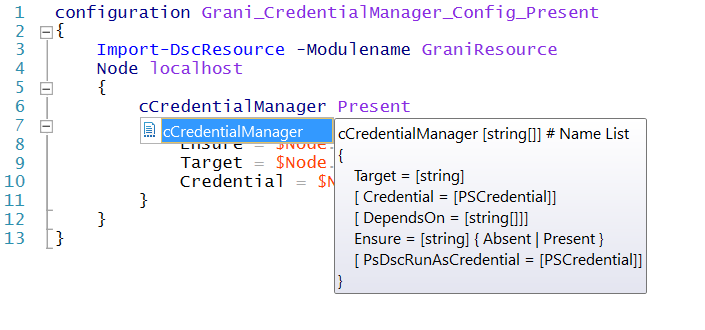
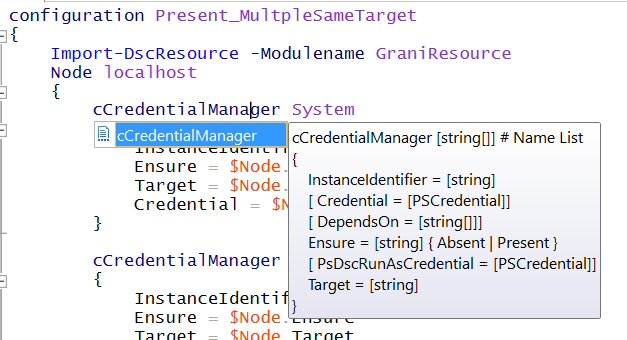
Update Readme for New Key Property. Added Multiple Same Target sample

Changed region(s): [[0.1515, 0.303, 0.9697, 1.0], [0.0, 0.0, 0.8485, 1.0], [0.1212, 0.6364, 0.1818, 0.697]]

diff --git a/DSCResources/Properties/AssemblyInfo.cs b/DSCResources/Properties/AssemblyInfo.cs
@@ -32,5 +32,5 @@ using System.Runtime.InteropServices;
 // You can specify all the values or you can default the Build and Revision Numbers 
 // by using the '*' as shown below:
 // [assembly: AssemblyVersion("1.0.*")]
-[assembly: AssemblyVersion("3.7.7.0")]
+[assembly: AssemblyVersion("3.7.8.0")]
 [assembly: AssemblyFileVersion("1.0.0.0")]

diff --git a/DSCResources/Grani_CredentialManager/README.md b/DSCResources/Grani_CredentialManager/README.md
@@ -41,6 +41,7 @@ configuration Present_System
     {
         cCredentialManager Present
         {
+            InstanceIdentifier = $Node.InstanceIdentifier
             Ensure = $Node.Ensure
             Target = $Node.Target
             Credential = $Node.Credential
@@ -53,6 +54,7 @@ $configurationData = @{
         @{
             NodeName = "localhost"
             PSDscAllowPlainTextPassword = $true
+            InstanceIdentifier = "JustAnIdentifierToKeepUnique"
             Ensure = "Present"
             Target = "DesiredTargetName"
             Credential = New-Object PSCredential ("PesterTestDummy", ("PesterTestPassword" | ConvertTo-SecureString -Force -AsPlainText))
@@ -71,8 +73,9 @@ configuration Absent_System
     Import-DscResource -Modulename GraniResource
     Node localhost
     {
-        cCredentialManager Present
+        cCredentialManager Absent
         {
+            InstanceIdentifier = $Node.InstanceIdentifier
             Ensure = $Node.Ensure
             Target = $Node.Target
         }
@@ -84,6 +87,7 @@ $configurationData = @{
         @{
             NodeName = "localhost"
             PSDscAllowPlainTextPassword = $true
+            InstanceIdentifier = "JustAnIdentifierToKeepUnique"
             Ensure = "Absent"
             Target = "DesiredTargetName"
         }
@@ -110,6 +114,89 @@ configuration Present_PsDscRunAsCredential
     {
         cCredentialManager Present
         {
+            InstanceIdentifier = $Node.InstanceIdentifier
+            Ensure = $Node.Ensure
+            Target = $Node.Target
+            Credential = $Node.Credential
+            PsDscRunAsCredential = $Node.PsDscRunAsCredential
+        }
+    }
+}
+
+$configurationData = @{
+    AllNodes = @(
+        @{
+            NodeName = "localhost"
+            PSDscAllowPlainTextPassword = $true
+            InstanceIdentifier = "JustAnIdentifierToKeepUnique"
+            Ensure = "Present"
+            Target = "DesiredTargetName"
+            Credential = New-Object PSCredential ("PesterTestDummy", ("PesterTestPassword" | ConvertTo-SecureString -Force -AsPlainText))
+            PsDscRunAsCredential = New-Object PSCredential ("administrator", ("SuperExcellntPassword____????1111" | ConvertTo-SecureString -Force -AsPlainText))
+        }
+    )
+}
+
+Present_PsDscRunAsCredential -ConfigurationData $configurationData
+```
+
+### Sample4. Remove Credential Manager entry **DesiredTargetName** from Specific user account by using PsDscRunAsCredential (== In this case **administrator**).
+
+```powershell
+configuration Absent_PsDscRunAsCredential
+{
+    Import-DscResource -Modulename GraniResource
+    Node localhost
+    {
+        cCredentialManager Absent
+        {
+            InstanceIdentifier = $Node.InstanceIdentifier
+            Ensure = $Node.Ensure
+            Target = $Node.Target
+            PsDscRunAsCredential = $Node.PsDscRunAsCredential
+        }
+    }
+}
+
+$configurationData = @{
+    AllNodes = @(
+        @{
+            NodeName = "localhost"
+            PSDscAllowPlainTextPassword = $true
+            InstanceIdentifier = "JustAnIdentifierToKeepUnique"
+            Ensure = "Absent"
+            Target = "DesiredTargetName"
+            PsDscRunAsCredential = New-Object PSCredential ("administrator", ("SuperExcellntPassword____????1111" | ConvertTo-SecureString -Force -AsPlainText))
+        }
+    )
+}
+
+Absent_PsDscRunAsCredential -ConfigurationData $configurationData
+```
+
+### Sample5. Create Credential Manager entry **DesiredTargetName** to Multiple user account by using PsDscRunAsCredential (== In this case **administrator**).
+
+**InstanceIdentifier** is just an identifier to avoid DSC detect duplicate resource for Same **Target**, **Credential** is trying to set to multuple account.
+
+This means you can set any value and never effects to Cred Manager for **InstanceIdentifier**. Just be careful to be unique like following. 
+
+```powershell
+configuration Present_MultpleSameTarget
+{
+    Import-DscResource -Modulename GraniResource
+    Node localhost
+    {
+        cCredentialManager System
+        {
+            InstanceIdentifier = "Sytem"
+            Ensure = $Node.Ensure
+            Target = $Node.Target
+            Credential = $Node.Credential
+        }
+
+        cCredentialManager User
+        {
+            InstanceIdentifier = "User"
             Ensure = $Node.Ensure
             Target = $Node.Target
             Credential = $Node.Credential
@@ -131,37 +218,6 @@ $configurationData = @{
     )
 }
 
-Present_PsDscRunAsCredential -ConfigurationData $configurationData
+Present_MultpleSameTarget -ConfigurationData $configurationData
 ```
 
-### Sample4. Remove Credential Manager entry **DesiredTargetName** from Specific user account by using PsDscRunAsCredential (== In this case **administrator**).
-
-```powershell
-configuration Absent_PsDscRunAsCredential
-{
-    Import-DscResource -Modulename GraniResource
-    Node localhost
-    {
-        cCredentialManager Present
-        {
-            Ensure = $Node.Ensure
-            Target = $Node.Target
-            PsDscRunAsCredential = $Node.PsDscRunAsCredential
-        }
-    }
-}
-
-$configurationData = @{
-    AllNodes = @(
-        @{
-            NodeName = "localhost"
-            PSDscAllowPlainTextPassword = $true
-            Ensure = "Absent"
-            Target = "DesiredTargetName"
-            PsDscRunAsCredential = New-Object PSCredential ("administrator", ("SuperExcellntPassword____????1111" | ConvertTo-SecureString -Force -AsPlainText))
-        }
-    )
-}
-
-Absent_PsDscRunAsCredential -ConfigurationData $configurationData
-```

diff --git a/README.md b/README.md
@@ -61,3 +61,16 @@ Designer | Contains xDSCResourceDesigner script to create ```*.schame.mof``` and
 DSCResource | Contains  DSC Resource source code.
 Package | Contains Zip file for release tags.
 Test | Contains Pester and Configuration Tests for each DSC Resource.
+
+How to release new version
+----
+
+Creating new package zip is Fully integrated with Visual Studio.
+
+1. Open GraniResource.Sln with Visual Studio. 
+1. Open Property for **DSCResources**.
+1. Go to Assembly Information.
+1. Increment Assetmbly version. This version will be automatically used in ```GraniResource.psd1``` and zip file naming. 
+1. Change Build setting to **Release** build and run build.
+1. Now you will find new DSC Module is created in ```TmpPackage\GraniResource```, and zip file is created in ```Package\GraniResource_{AssemblyVersion}.zip```.
+
